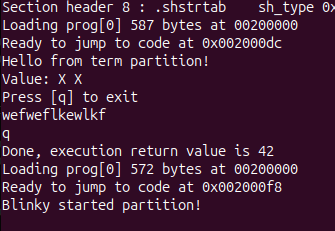
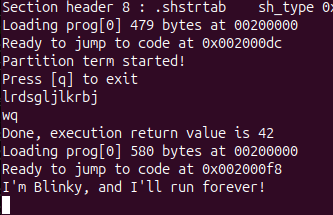
Sequential run

Changed region(s): [[0.0, 0.0, 1.0, 1.0], [0.4204, 0.0, 0.6907, 0.0558]]

diff --git a/Hype/partitions/term/src/main.c b/Hype/partitions/term/src/main.c
@@ -16,20 +16,12 @@ void print(const char *str){
 
 
 int main(){
-    int mask, value;
     char c;
     unsigned int seconds;
     int target = 1;
 
-    print("Hello from term partition!\n\r");
-    led_write(0x2, 0xF);
-    led_read(&value, &mask);
-
-    print("Value: ");
-    for(int i = 0; i < value; i++){
-        print("X ");
-    }
-    print("\r\nPress [q] to exit\r\n");
+    print("Partition term started!\n\r");
+    print("Press [q] to exit\r\n");
 
     do{
         c = '\0';

diff --git a/Hype/partitions/blinky/src/main.c b/Hype/partitions/blinky/src/main.c
@@ -22,7 +22,7 @@ int main(){
     struct time current_time = { 0 };
     struct time target_time = { 0 };
     
-    const char greetings[] = "Blinky started partition!\n\r";
+    const char greetings[] = "I'm Blinky, and I'll run forever!\n\r";
     
     uart_send(greetings, sizeof(greetings));
     

diff --git a/Devlog/Chap3-4.md b/Devlog/Chap3-4.md
@@ -77,6 +77,10 @@ To keep things simple, the three partitions will be a bit different:
 
 Like this, I can visually confirm that blinky and pushy do more or less what they should, and keep playing with term (even though... I'm not sure I should keep the `q` key behaviour... We'll see...).
 
+Oh, and I got the boot code to run two elf sequentially! I started term, got the return value, then started the endless loop of blinky!  
+
+![Sequential run](./images/Chap_3_4_SequentialRun.png)
+
 ### The partitions binary
 
 Header is:
